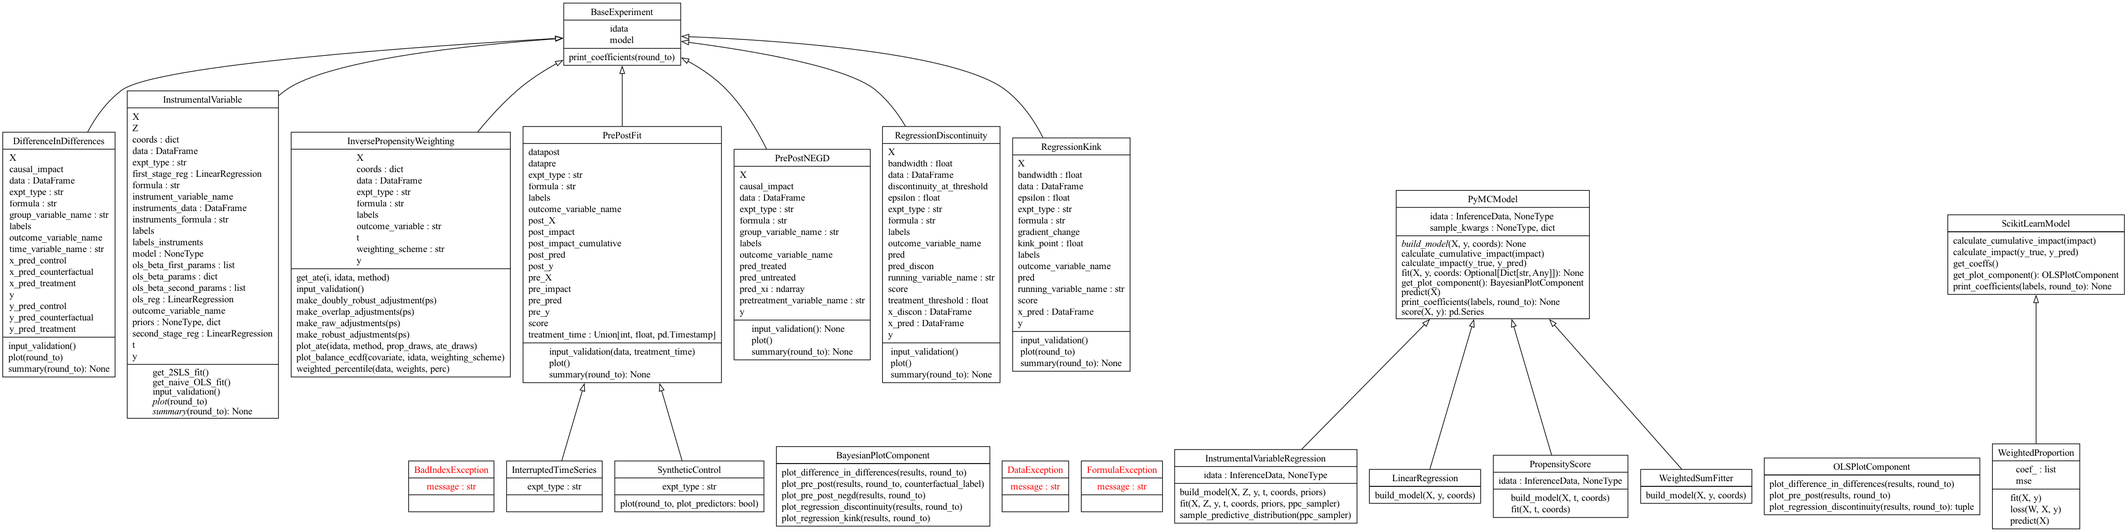
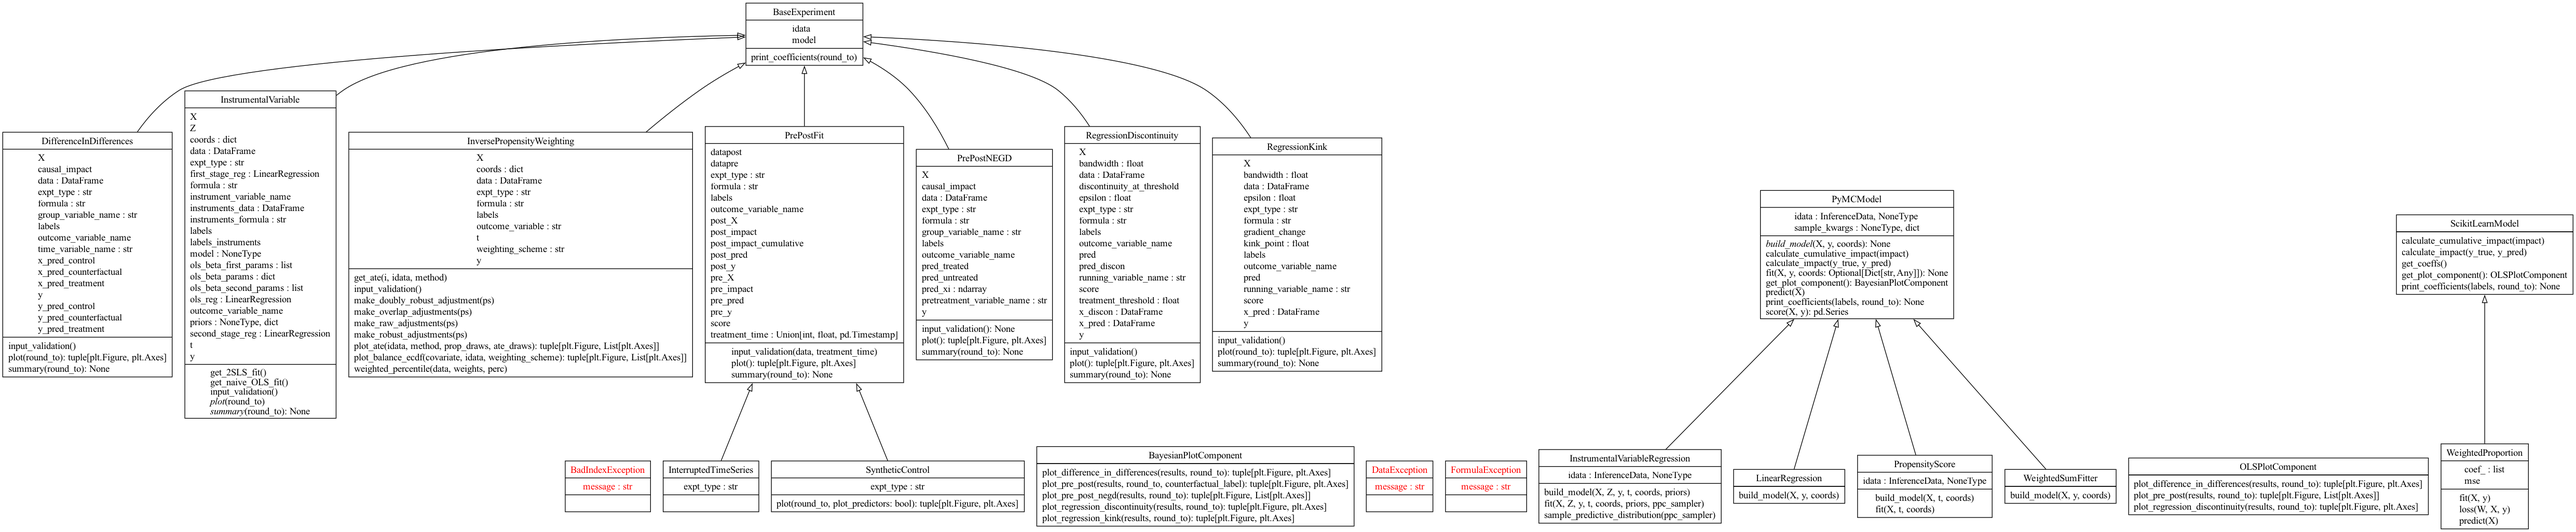
add return type hints for plot methods + fix up test assertions

diff --git a/causalpy/plotting.py b/causalpy/plotting.py
@@ -12,6 +12,8 @@
 #   See the License for the specific language governing permissions and
 #   limitations under the License.
 
+from typing import List
+
 import arviz as az
 import matplotlib.pyplot as plt
 import numpy as np
@@ -28,7 +30,9 @@ class BayesianPlotComponent:
     """Plotting component for Bayesian models."""
 
     @staticmethod
-    def plot_pre_post(results, round_to=None, counterfactual_label=None):
+    def plot_pre_post(
+        results, round_to=None, counterfactual_label=None
+    ) -> tuple[plt.Figure, plt.Axes]:
         """Generate plot for pre-post experiment types, such as Interrupted Time Series
         and Synthetic Control."""
         datapre = results.datapre
@@ -143,7 +147,9 @@ class BayesianPlotComponent:
         return fig, ax
 
     @staticmethod
-    def plot_difference_in_differences(results, round_to=None):
+    def plot_difference_in_differences(
+        results, round_to=None
+    ) -> tuple[plt.Figure, plt.Axes]:
         """Generate plot for difference-in-differences"""
 
         def _plot_causal_impact_arrow(results, ax):
@@ -282,7 +288,7 @@ class BayesianPlotComponent:
     #     pass
 
     @staticmethod
-    def plot_pre_post_negd(results, round_to=None):
+    def plot_pre_post_negd(results, round_to=None) -> tuple[plt.Figure, List[plt.Axes]]:
         """Generate plot for ANOVA-like experiments with non-equivalent group designs."""
         fig, ax = plt.subplots(
             2, 1, figsize=(7, 9), gridspec_kw={"height_ratios": [3, 1]}
@@ -334,7 +340,9 @@ class BayesianPlotComponent:
         return fig, ax
 
     @staticmethod
-    def plot_regression_discontinuity(results, round_to=None):
+    def plot_regression_discontinuity(
+        results, round_to=None
+    ) -> tuple[plt.Figure, plt.Axes]:
         """Generate plot for regression discontinuity designs."""
         fig, ax = plt.subplots()
         # Plot raw data
@@ -386,7 +394,7 @@ class BayesianPlotComponent:
         return (fig, ax)
 
     @staticmethod
-    def plot_regression_kink(results, round_to=None):
+    def plot_regression_kink(results, round_to=None) -> tuple[plt.Figure, plt.Axes]:
         """Generate plot for regression kink designs."""
         fig, ax = plt.subplots()
         # Plot raw data
@@ -440,7 +448,7 @@ class OLSPlotComponent:
     """Plotting component for OLS models."""
 
     @staticmethod
-    def plot_pre_post(results, round_to=None):
+    def plot_pre_post(results, round_to=None) -> tuple[plt.Figure, List[plt.Axes]]:
         """Generate plot for pre-post experiment types, such as Interrupted Time Series
         and Synthetic Control."""
         counterfactual_label = "Counterfactual"
@@ -509,7 +517,9 @@ class OLSPlotComponent:
         return (fig, ax)
 
     @staticmethod
-    def plot_difference_in_differences(results, round_to=None):
+    def plot_difference_in_differences(
+        results, round_to=None
+    ) -> tuple[plt.Figure, plt.Axes]:
         """Generate plot for difference-in-differences"""
         fig, ax = plt.subplots()
 
@@ -585,7 +595,9 @@ class OLSPlotComponent:
         return (fig, ax)
 
     @staticmethod
-    def plot_regression_discontinuity(results, round_to=None) -> tuple:
+    def plot_regression_discontinuity(
+        results, round_to=None
+    ) -> tuple[plt.Figure, plt.Axes]:
         """Generate plot for regression discontinuity designs."""
         fig, ax = plt.subplots()
         # Plot raw data

diff --git a/causalpy/experiments/inverse_propensity_weighting.py b/causalpy/experiments/inverse_propensity_weighting.py
@@ -15,6 +15,8 @@
 Inverse propensity weighting
 """
 
+from typing import List
+
 import arviz as az
 import matplotlib.pyplot as plt
 import numpy as np
@@ -238,7 +240,9 @@ class InversePropensityWeighting(BaseExperiment):
         ate = trt - ntrt
         return [ate, trt, ntrt]
 
-    def plot_ate(self, idata=None, method=None, prop_draws=100, ate_draws=300):
+    def plot_ate(
+        self, idata=None, method=None, prop_draws=100, ate_draws=300
+    ) -> tuple[plt.Figure, List[plt.Axes]]:
         if idata is None:
             idata = self.model.idata
         if method is None:
@@ -364,7 +368,7 @@ class InversePropensityWeighting(BaseExperiment):
         axs[2].legend()
         axs[2].set_title("Average Treatment Effect", fontsize=20)
 
-        return fig
+        return fig, axs
 
     def weighted_percentile(self, data, weights, perc):
         """
@@ -380,7 +384,9 @@ class InversePropensityWeighting(BaseExperiment):
         )  # 'like' a CDF function
         return np.interp(perc, cdf, data)
 
-    def plot_balance_ecdf(self, covariate, idata=None, weighting_scheme=None):
+    def plot_balance_ecdf(
+        self, covariate, idata=None, weighting_scheme=None
+    ) -> tuple[plt.Figure, List[plt.Axes]]:
         """
         Plotting function takes a single covariate and shows the
         differences in the ECDF between the treatment and control
@@ -451,4 +457,5 @@ class InversePropensityWeighting(BaseExperiment):
         axs[0].set_xlabel("Quantiles")
         axs[1].legend()
         axs[0].legend()
-        return fig
+        # TODO: for some reason ax is type numpy.ndarray, so we need to convert this back to a list to conform to the expected return type.
+        return fig, list(axs)

diff --git a/causalpy/tests/test_misc.py b/causalpy/tests/test_misc.py
@@ -16,8 +16,8 @@ Miscellaneous unit tests
 """
 
 import arviz as az
-import matplotlib as mpl
 import pandas as pd
+from matplotlib import pyplot as plt
 
 import causalpy as cp
 
@@ -82,7 +82,11 @@ def test_inverse_prop():
     assert isinstance(ate_list, list)
     ate_list = result.get_ate(0, result.idata, method="overlap")
     assert isinstance(ate_list, list)
-    fig = result.plot_ate(prop_draws=1, ate_draws=10)
-    assert isinstance(fig, mpl.figure.Figure)
-    fig = result.plot_balance_ecdf("age")
-    assert isinstance(fig, mpl.figure.Figure)
+    fig, axs = result.plot_ate(prop_draws=1, ate_draws=10)
+    assert isinstance(fig, plt.Figure)
+    assert isinstance(axs, list)
+    assert all(isinstance(ax, plt.Axes) for ax in axs)
+    fig, axs = result.plot_balance_ecdf("age")
+    assert isinstance(fig, plt.Figure)
+    assert isinstance(axs, list)
+    assert all(isinstance(ax, plt.Axes) for ax in axs)

diff --git a/causalpy/experiments/prepostfit.py b/causalpy/experiments/prepostfit.py
@@ -19,6 +19,7 @@ from typing import Union
 
 import numpy as np
 import pandas as pd
+from matplotlib import pyplot as plt
 from patsy import build_design_matrices, dmatrices
 
 from causalpy.custom_exceptions import BadIndexException
@@ -107,7 +108,7 @@ class PrePostFit(BaseExperiment):
                 "If data.index is not DatetimeIndex, treatment_time must be pd.Timestamp."  # noqa: E501
             )
 
-    def plot(self):
+    def plot(self) -> tuple[plt.Figure, plt.Axes]:
         """
         Plot the results
 
@@ -204,7 +205,9 @@ class SyntheticControl(PrePostFit):
 
     expt_type = "SyntheticControl"
 
-    def plot(self, round_to=None, plot_predictors: bool = False):
+    def plot(
+        self, round_to=None, plot_predictors: bool = False
+    ) -> tuple[plt.Figure, plt.Axes]:
         """
         Plot the results
 

diff --git a/causalpy/experiments/regression_kink.py b/causalpy/experiments/regression_kink.py
@@ -18,6 +18,7 @@ Regression kink design
 
 import warnings  # noqa: I001
 
+from matplotlib import pyplot as plt
 import numpy as np
 import pandas as pd
 from patsy import build_design_matrices, dmatrices
@@ -160,7 +161,7 @@ class RegressionKink(BaseExperiment):
         """Returns ``True`` if `x` is greater than or equal to the treatment threshold."""  # noqa: E501
         return np.greater_equal(x, self.kink_point)
 
-    def plot(self, round_to=None):
+    def plot(self, round_to=None) -> tuple[plt.Figure, plt.Axes]:
         """
         Plot the results
 

diff --git a/causalpy/experiments/prepostnegd.py b/causalpy/experiments/prepostnegd.py
@@ -17,6 +17,7 @@ Pretest/posttest nonequivalent group design
 
 import numpy as np
 import pandas as pd
+from matplotlib import pyplot as plt
 from patsy import build_design_matrices, dmatrices
 
 from causalpy.custom_exceptions import (
@@ -176,7 +177,7 @@ class PrePostNEGD(BaseExperiment):
         causal_impact = f"{round_num(self.causal_impact.mean(), round_to)}, "
         return f"Causal impact = {causal_impact + ci}"
 
-    def plot(self):
+    def plot(self) -> tuple[plt.Figure, plt.Axes]:
         """
         Plot the results
 

diff --git a/causalpy/experiments/diff_in_diff.py b/causalpy/experiments/diff_in_diff.py
@@ -17,6 +17,7 @@ Difference in differences
 
 import numpy as np
 import pandas as pd
+from matplotlib import pyplot as plt
 from patsy import build_design_matrices, dmatrices
 
 from causalpy.custom_exceptions import (
@@ -204,7 +205,7 @@ class DifferenceInDifferences(BaseExperiment):
                 coded. Consisting of 0's and 1's only."""
             )
 
-    def plot(self, round_to=None):
+    def plot(self, round_to=None) -> tuple[plt.Figure, plt.Axes]:
         """
         Plot the results
 

diff --git a/causalpy/experiments/regression_discontinuity.py b/causalpy/experiments/regression_discontinuity.py
@@ -17,6 +17,7 @@ Regression discontinuity design
 
 import warnings  # noqa: I001
 
+from matplotlib import pyplot as plt
 import numpy as np
 import pandas as pd
 from patsy import build_design_matrices, dmatrices
@@ -192,7 +193,7 @@ class RegressionDiscontinuity(BaseExperiment):
         """
         return np.greater_equal(x, self.treatment_threshold)
 
-    def plot(self):
+    def plot(self) -> tuple[plt.Figure, plt.Axes]:
         """
         Plot the results
 
